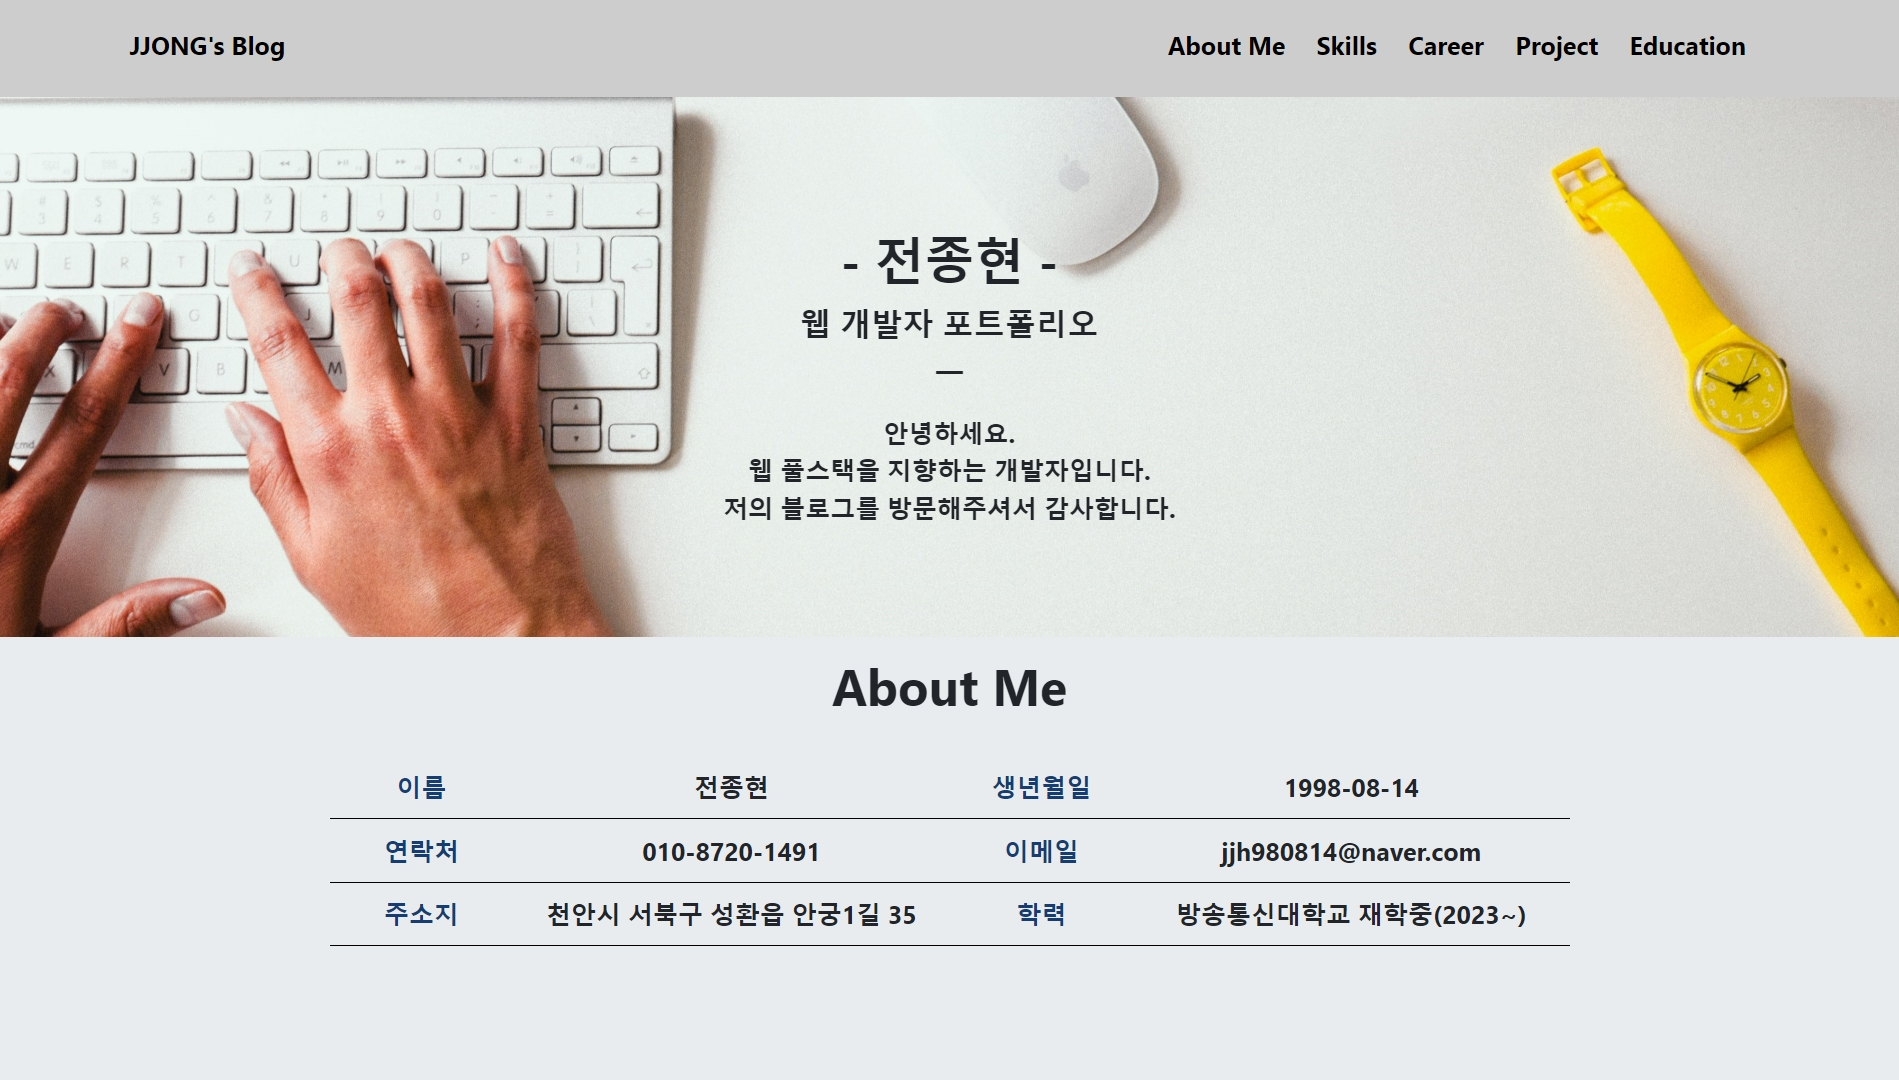
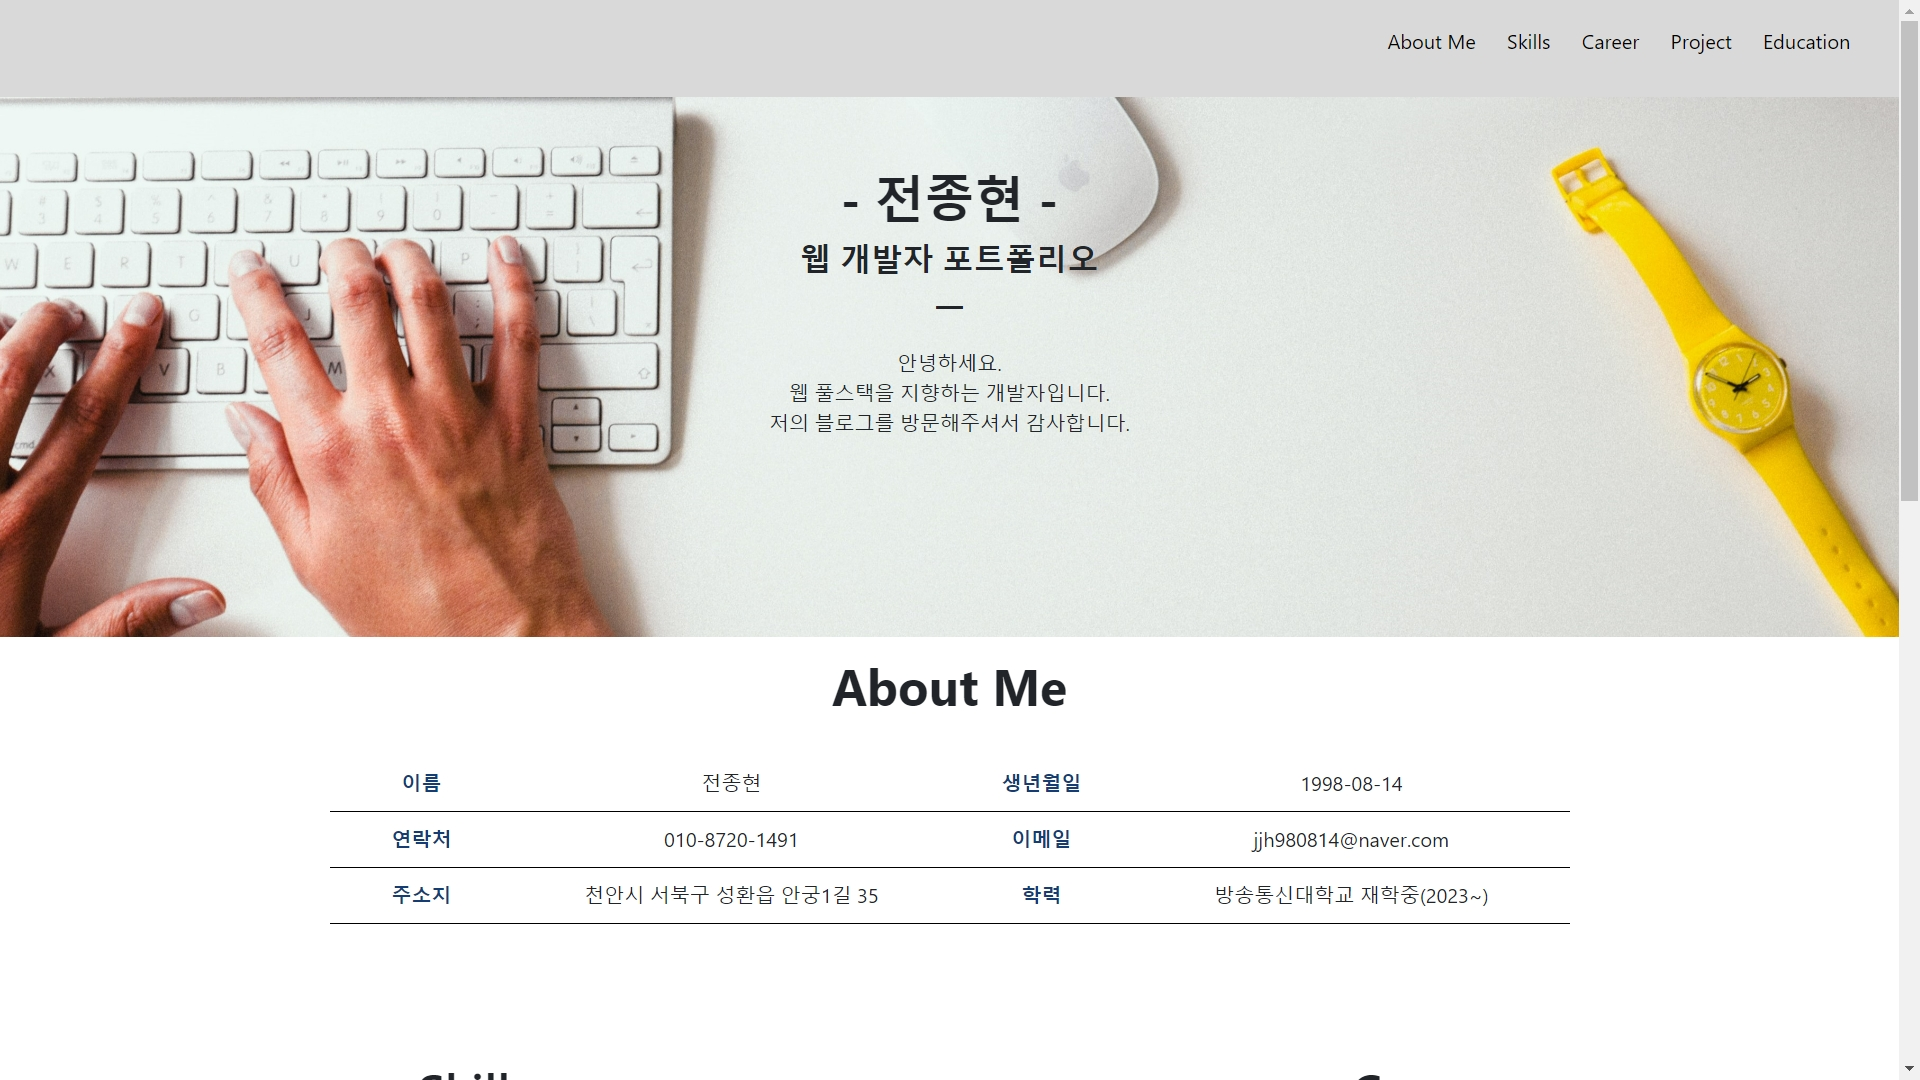
클린코드 작성

diff --git a/src/container/Skill.js b/src/container/Skill.js
@@ -5,12 +5,12 @@ export default function Skill() {
 
     return (
         <div>
-            <div style={{ width: '50%', height: '100vh', borderTop: '1px solid black', float: 'left', }}>
+            <div style={{ width: '50%', height: '100vh', float: 'left', }}>
                 <h1>Skills</h1>
 
-                <div style={{ marginTop: '25px' }}>
+                <div style={{ marginTop: '25px', fontWeight : 'bold'}}>
                     FrontEnd
-                    <div style={{ display: 'flex', flexDirection: 'row', alignItems: 'center', justifyContent: 'center', textAlign: 'center' }}>
+                    <div style={{ display: 'flex', flexDirection: 'row', alignItems: 'center', justifyContent: 'center', textAlign: 'center'}}>
                         <div style={{ height: '10vh', width: '10%', }} className="css3-icon"></div>
                         <div style={{ height: '10vh', width: '10%', }} className="html5-icon"></div>
                         <div style={{ height: '10vh', width: '10%', }} className="js-icon"></div>
@@ -21,17 +21,17 @@ export default function Skill() {
                     </div>
                 </div>
 
-                <div style={{ marginTop: '20px' }}>
-                    backEnd
+                <div style={{ marginTop: '20px', fontWeight : 'bold' }}>
+                    BackEnd
                     <div style={{ display: 'flex', flexDirection: 'row', alignItems: 'center', justifyContent: 'center' }}>
-                        <div style={{ height: '10vh', width: '10%', }} className="node-icon"></div>
-                        <div style={{ height: '10vh', width: '10%', }} className="springboot-icon"></div>
-                        <div style={{ height: '10vh', width: '10%', }} className="express-icon"></div>
                         <div style={{ height: '10vh', width: '10%', }} className="java-icon"></div>
+                        <div style={{ height: '10vh', width: '10%', }} className="springboot-icon"></div>
+                        <div style={{ height: '10vh', width: '10%', }} className="node-icon"></div>
+                        <div style={{ height: '10vh', width: '10%', }} className="express-icon"></div>
                     </div>
                 </div>
 
-                <div style={{ marginTop: '20px' }}>
+                <div style={{ marginTop: '20px', fontWeight : 'bold' }}>
                     DevOps/Version Control
                     <div style={{ display: 'flex', flexDirection: 'row', alignItems: 'center', justifyContent: 'center' }}>
                         <div style={{ height: '10vh', width: '10%', }} className="github-icon"></div>
@@ -39,7 +39,7 @@ export default function Skill() {
                     </div>
                 </div>
 
-                <div style={{ marginTop: '20px' }}>
+                <div style={{ marginTop: '20px', fontWeight : 'bold' }}>
                     Database
                     <div style={{ display: 'flex', flexDirection: 'row', alignItems: 'center', justifyContent: 'center' }}>
                         <div style={{ height: '10vh', width: '10%', }} className="mongodb-icon"></div>
@@ -49,7 +49,7 @@ export default function Skill() {
                     </div>
                 </div>
 
-                <div>
+                <div style={{ marginTop: '20px', fontWeight : 'bold' }}>
                     ETC
                     <div style={{ display: 'flex', flexDirection: 'row', alignItems: 'center', justifyContent: 'center' }}>
                         <div style={{ height: '10vh', width: '10%', }} className="slack-icon"></div>
@@ -66,9 +66,9 @@ export default function Skill() {
             </div>
 
 
-            <div style={{ width: '50%', height: '100vh',borderLeft : '1px solid black', borderTop: '1px solid black', float: 'left' }}>
+            <div style={{ width: '50%', height: '100vh', float: 'left' }}>
 
-                <div style={{borderBottom : '1px solid black'}}>
+                <div style={{}}>
                     <h1>
                         Career
                     </h1>
@@ -79,9 +79,9 @@ export default function Skill() {
                     
                 </div>
 
-                <div style={{borderBottom : '1px solid black', marginBottom : '5px'}}>
+                <div style={{ marginBottom : '5px'}}>
                     <h1>
-                        education
+                        Education
                     </h1>
                     <div style={{marginBottom : '15px'}}>
                     비트교육센터<br /> 2022-01 ~ 2022-08<br />

diff --git a/src/App.js b/src/App.js
@@ -19,13 +19,16 @@ function App() {
   return (
     <div className='App'>
 
-      <div className='black-nav' >
+      <div className='black-nav'>
         {/* <a style={{textDecorationLine : 'none', marginRight : '700px', color : 'black', fontWeight : 'bold', fontSize : '20px'}} href='/'>JJONG's Blog</a> */}
-        <button style={{marginRight : '13px'}} onClick={() => scrollToRef(aboutRef)}>About Me</button>
-        <button style={{marginRight : '13px'}} onClick={() => scrollToRef(skillRef)}>Skills</button>
-        <button style={{marginRight : '13px'}} onClick={() => scrollToRef(skillRef)}>Career</button>
-        <button style={{marginRight : '13px'}} onClick={() => scrollToRef(skillRef)}>Project</button>
-        <button style={{marginRight : '13px'}} onClick={() => scrollToRef(skillRef)}>Education</button>
+        <div style={{float : 'right'}}>
+        <button className='a-tag' onClick={() => scrollToRef(aboutRef)}>About Me</button>
+        <button className='a-tag' onClick={() => scrollToRef(skillRef)}>Skills</button>
+        <button className='a-tag' onClick={() => scrollToRef(skillRef)}>Career</button>
+        <button className='a-tag' onClick={() => scrollToRef(skillRef)}>Project</button>
+        <button className='a-tag' onClick={() => scrollToRef(skillRef)}>Education</button>
+        </div>
+        
       </div>
       
       <div style={{paddingTop : '9vh'}}  ref={aboutRef}>

diff --git a/src/container/About.js b/src/container/About.js
@@ -2,22 +2,18 @@ import React from 'react';
 import '../global.css'
 
 export default function About() {
-
-         // 현재 날짜를 얻어옵니다.
-         const currentDate = new Date();
-
-         // 연도를 얻어옵니다.
-         const currentYear = currentDate.getFullYear();
     return (
-        <div>
-            <div className='background-ima'>
+        <div >
+            <div style={{padding : '50px'}} className='background-ima'>
 
-                <div className='asd'>
-                    <h1 style={{ fontWeight: 'bold' }}> - 전종현 -</h1>
+                <div  className='background-text'>
+                    <div style={{ fontWeight: 'bold', fontSize : '40px'}}> - 전종현 -
+                    </div>
                     <p style={{ fontSize: '25px', fontWeight: 'bold' }}>웹 개발자 포트폴리오<br/>ㅡ</p>
                     <div>안녕하세요. <br />웹 풀스택을 지향하는 개발자입니다.<br />
                         저의 블로그를 방문해주셔서 감사합니다.
                     </div>
+                    
                 </div>
             </div>
 

diff --git a/src/global.css b/src/global.css
@@ -9,32 +9,35 @@ button {
   background-color: transparent;
   border: none;
   color: black;
-  font-size: 20px;
-  font-weight: bold;
 }
 .black-nav {
-  flex-direction: column;
   position: fixed;
-  /* background: rgb(205, 205, 205); */
+  justify-content: space-between;
+  background: #D9D9D9;
   width: 100%;
   height: 9vh;
-  /* color: white; */
+  color: white;
   padding : 20px;
 }
 
-
+.a-tag{
+  margin-right: 13px;
+  text-decoration-line: none;
+  color: black;
+}
 
 .First-Div{
  height: 91vh;
  font-size: 20px;
  font-weight: bold;
+ background: rgb(205, 205, 205);
 }
 
 .Second-Div{
   height: 91vh;
   font-size: 20px;
   font-weight: bold;
-  /* background: #e9ecef; */
+  background: rgb(205, 205, 205);
 }
 
 .emoji-github{
@@ -69,15 +72,8 @@ button {
 
 
 
-.asd{
-    position: absolute;
-     top:35%;
-     left:50%;
-     transform: translate(-50%, -50%);   
-     /* font-weight : bold;  */
-     /* font-size:5rem; */
-     /* z-index: 2; */
-     /* text-align: center; */
+.background-text{
+  display: block;
 }
 
 .background-ima{
